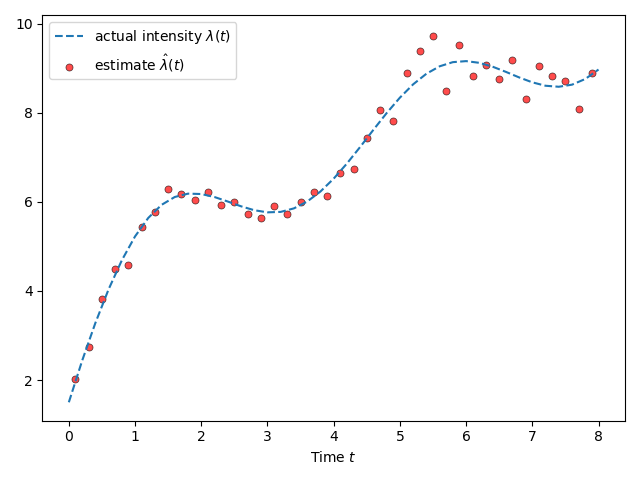
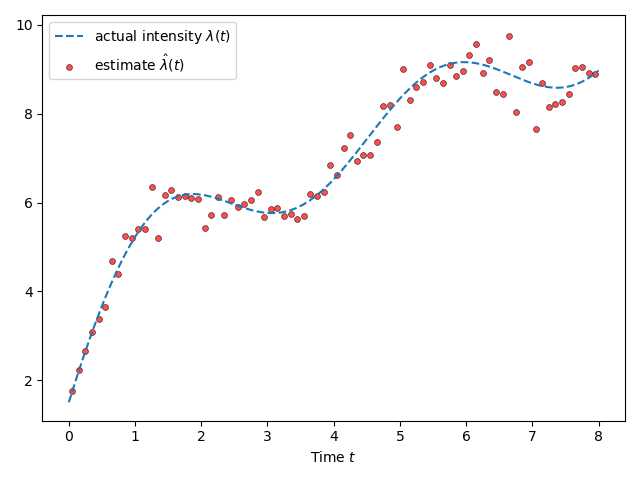
update python example

diff --git a/pylib/examples/poisson_intensity_estimator.py b/pylib/examples/poisson_intensity_estimator.py
@@ -1,43 +1,43 @@
 import numpy as np
+import numba
 import matplotlib.pyplot as plt
 import pointprocesses as pp
 from pointprocesses.temporal import variable_poisson
 
 
-def count_events_by_(events, partition) -> list:
+@numba.jit("double[:],double[:]", cache=True)
+def count_events_by_(events, partition):
     m = len(partition)
-    counts = np.zeros((m-1,), dtype=np.int)
-    if events.ndim >= 2:
-        events = events[:,0]
+    counts = np.zeros((m-1,))
     for i in range(m-1):
         low = partition[i]
         high = partition[i+1]
-        res = np.sum((events < high) & (events > low))
-        counts[i] = res
+        counts[i] = np.sum((low < events) &(events < high))
     return counts
 
 
-def intensity_estimator(processes, partition) -> np.ndarray:
+def intensity_estimator(data, partition) -> np.ndarray:
     """
     Inspired by Leemis (2001), "Nonparametric estimation and variate generation for a
     nonhomogeneous Poisson process from event count data"
 
     Args:
-        processes (list): set of simulated processes
+        data (list): set of simulated processes
         partition (list): partition of the overarching time interval
     """
-    n = len(processes)
+    n = len(data)
     m = len(partition) - 1
     bandwidth = partition[1] - partition[0]
     estimates = np.zeros((n,m))
     for i in range(n):
-        events = processes[i]
-        estimates[i,:] = count_events_by_(events, partition) / bandwidth
+        seq = data[i]  # i-th batch
+        estimates[i,:] = count_events_by_(seq[0], partition) / bandwidth
     return estimates.mean(axis=0)
 
 
 tmax = 8.0
-bandwidth = 0.2
+trange = np.linspace(0, tmax, 201)
+bandwidth = 0.1
 partition = np.arange(0, tmax+bandwidth, bandwidth)
 
 def intens(x):
@@ -45,22 +45,22 @@ def intens(x):
     return 5.0*(1-0.9*np.exp(-x))*(1+0.2*np.sin(1.4*x)) + \
         1.0 * np.exp(0.2*x)
 
+# max_lbda = np.max(1.01*intens(np.linspace(0, tmax, 200)))
 max_lbda = 10.0
-num_proc_samples = 400
-processes = [variable_poisson(tmax, intens, max_lbda) for _ in range(num_proc_samples)]
-estimates = intensity_estimator(processes, partition)
-# print("Partition:", partition)
-# print("Intensity estimates:\n", estimates)
+num_proc_samples = 500
+# Simulated samples
+data = [variable_poisson(tmax, intens, max_lbda) for _ in range(num_proc_samples)]
+estimates = intensity_estimator(data, partition)
 
 scatter_ops = {
-    "s": 26.0,
+    "s": 18.0,
     "color": "r",
     "linewidths": 0.5,
     "edgecolors": "k",
     "alpha": 0.7
 }
 
-plt.plot(partition, intens(partition),
+plt.plot(trange, intens(trange),
     linestyle='--',
     label="actual intensity $\\lambda(t)$")
 plt.scatter(0.5*(partition[1:]+partition[:-1]), estimates,
